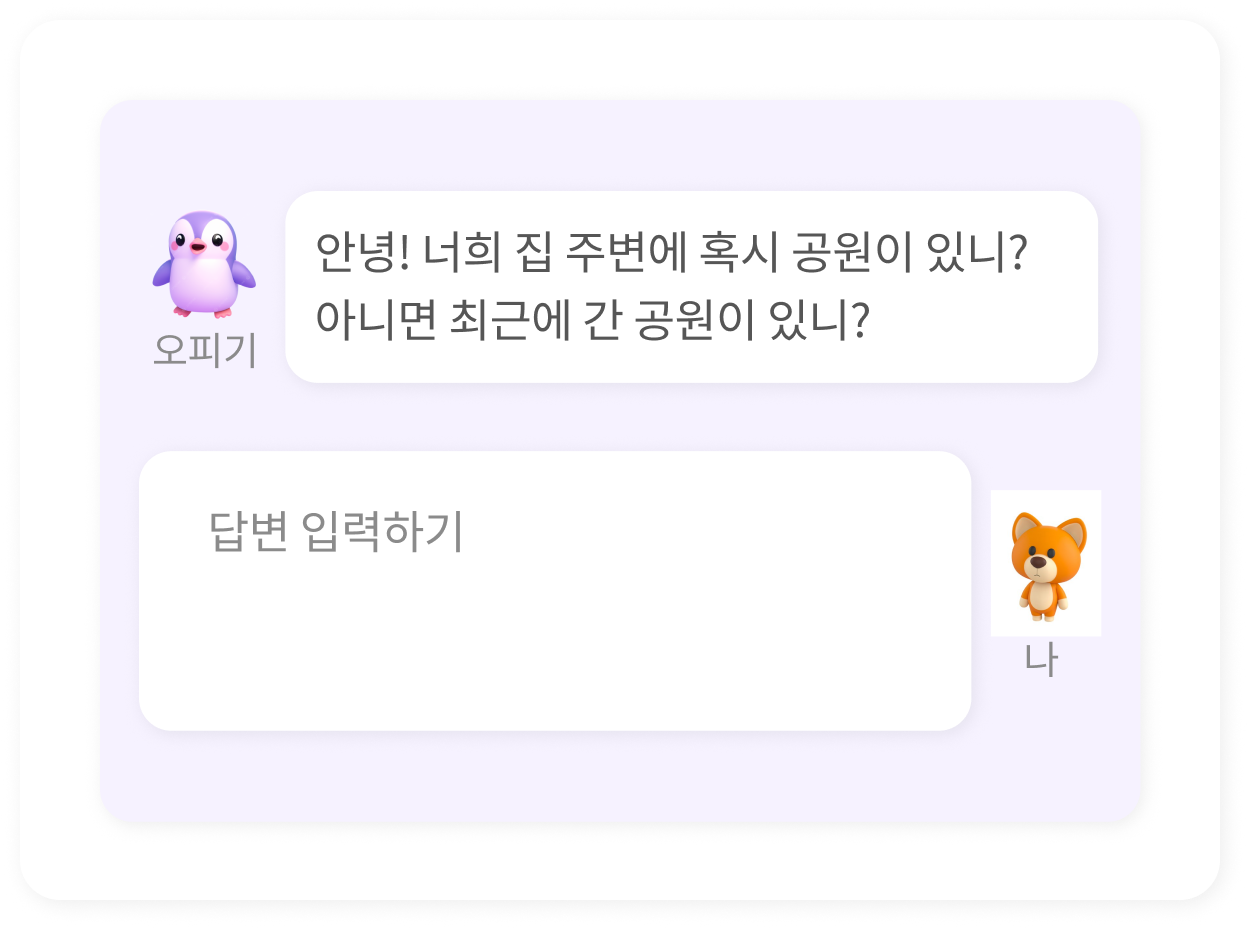
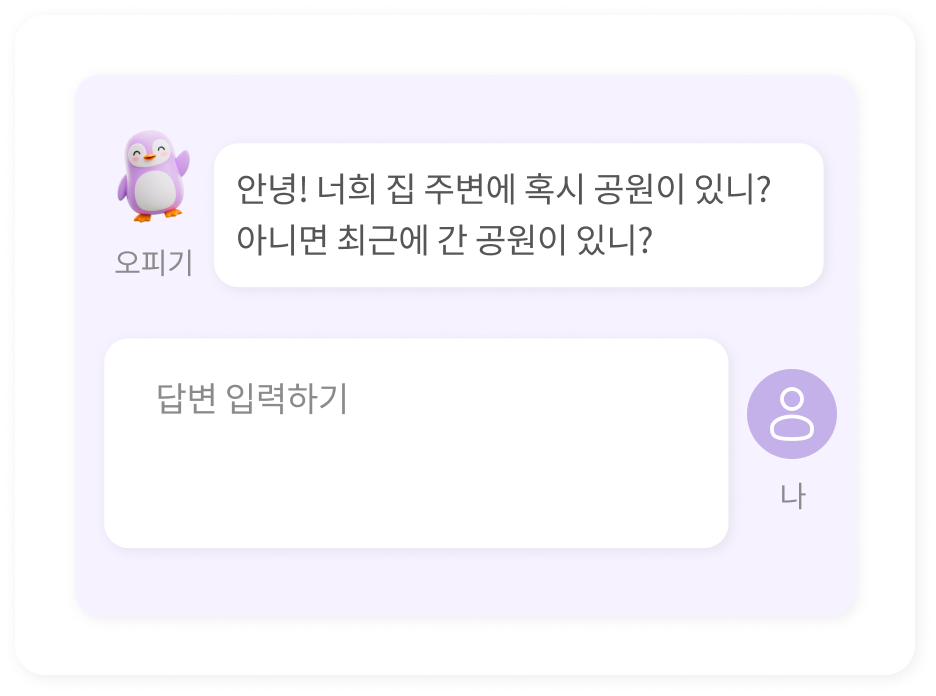
fix: 서비스 소개 이미지 및 스타일 수정

diff --git a/Frontend/src/components/auth/Introduction.module.css b/Frontend/src/components/auth/Introduction.module.css
@@ -62,7 +62,7 @@
 }
 
 .testContainer {
-  margin: 5.5rem 0;
+  margin: 6.5rem 0;
   width: 30rem;
 }
 
@@ -78,7 +78,7 @@
 
   .testContainer {
     width: 25rem;
-    margin: 3rem 0;
+    margin: 5rem 0;
   }
 }
 
@@ -92,8 +92,8 @@
     margin: 5rem 0;
   }
 
-  .chatContainer {
+  .testContainer {
     width: 25rem;
-    margin: 2rem 0; /* 작은 화면에서 여백 줄이기 */
+    margin: 4rem 0; /* 작은 화면에서 여백 줄이기 */
   }
 }

diff --git a/Frontend/src/pages/auth/Login.tsx b/Frontend/src/pages/auth/Login.tsx
@@ -14,7 +14,7 @@ function Login({}: Props) {
     const timer = setTimeout(() => {
       // 마지막 페이지라면 첫 페이지로, 아니면 다음 페이지로
       setCurrentStep((prev) => (prev >= totalSteps - 1 ? 0 : prev + 1));
-    }, 2500); // 2.5초 후 다음 페이지로
+    }, 1300); // 1.3초 후 다음 페이지로
 
     return () => clearTimeout(timer);
   }, [currentStep, totalSteps]);
